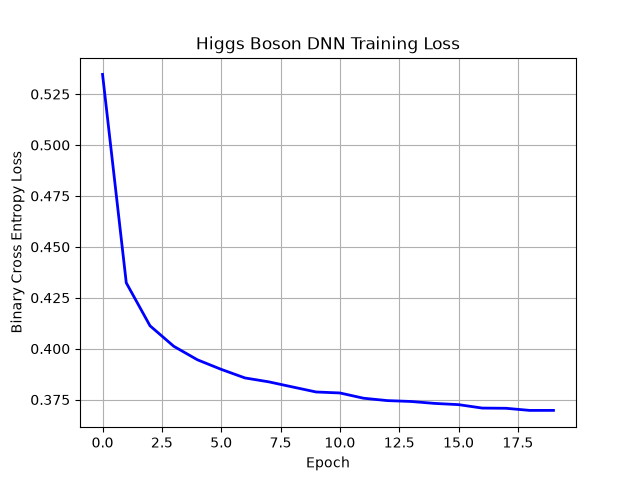
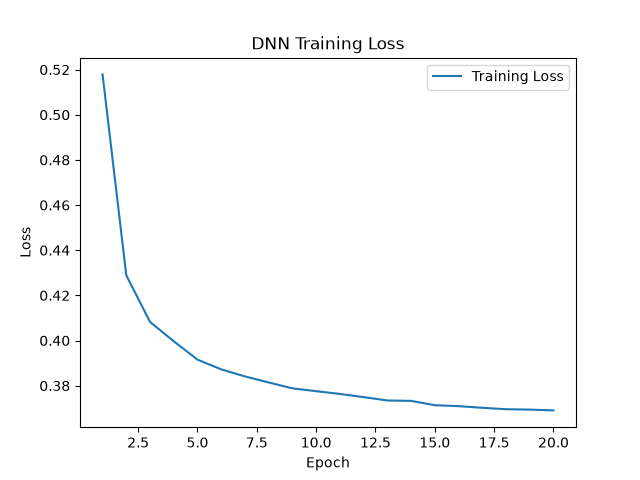
Upgrade matplotlib aesthetics for publication quality graphs

diff --git a/higgs_dnn.py b/higgs_dnn.py
@@ -13,47 +13,41 @@ df = pd.read_csv('training.csv')
 # Note: Took me hours to figure out why my loss was exploding with NaNs. CERN uses -999.0 for missing sensor readings instead of standard nulls. Replacing with 0.0 fixes the tensor math.
 df = df.replace(-999.0, 0.0)
 
-# Features (30 kinematic variables) and Labels (s = signal, b = background)
 X = df.drop(['EventId', 'Weight', 'Label'], axis=1).values
-y = np.where(df['Label'] == 's', 1, 0) # Convert 's' and 'b' to 1 and 0
+y = np.where(df['Label'] == 's', 1, 0)
 
-# Split into training and testing sets
 X_train, X_test, y_train, y_test = train_test_split(X, y, test_size=0.2, random_state=42)
 
-# Standardize the physical quantities (zero mean, unit variance)
 scaler = StandardScaler()
 X_train = scaler.fit_transform(X_train)
 X_test = scaler.transform(X_test)
 
-# Convert to PyTorch tensors
 X_train = torch.tensor(X_train, dtype=torch.float32)
 y_train = torch.tensor(y_train, dtype=torch.float32).unsqueeze(1)
 X_test = torch.tensor(X_test, dtype=torch.float32)
 y_test = torch.tensor(y_test, dtype=torch.float32).unsqueeze(1)
 
-# Define the Deep Neural Network
 class HiggsDNN(nn.Module):
     def __init__(self, input_dim):
         super().__init__()
         self.net = nn.Sequential(
             nn.Linear(input_dim, 128),
             nn.ReLU(),
-            nn.Dropout(0.3), # Prevents overfitting to background noise
+            nn.Dropout(0.3),
             nn.Linear(128, 64),
             nn.ReLU(),
             nn.Dropout(0.3),
             nn.Linear(64, 1),
-            nn.Sigmoid() # Outputs probability of being a Higgs Boson
+            nn.Sigmoid()
         )
 
     def forward(self, x):
         return self.net(x)
 
 model = HiggsDNN(X_train.shape[1])
-criterion = nn.BCELoss() # Binary Cross Entropy for signal vs background
+criterion = nn.BCELoss()
 optimizer = optim.Adam(model.parameters(), lr=0.001)
 
-# Train the model
 epochs = 20
 batch_size = 2048
 print("Training Deep Neural Network...")
@@ -78,24 +72,24 @@ for epoch in range(epochs):
     losses.append(avg_loss)
     print(f"Epoch {epoch+1}/{epochs}, Loss: {avg_loss:.4f}")
 
-# Evaluate accuracy
 with torch.no_grad():
     test_preds = model(X_test)
     test_preds = (test_preds >= 0.5).float()
     accuracy = (test_preds == y_test).float().mean()
     print(f"\nFinal Test Accuracy: {accuracy.item()*100:.2f}%")
 
-# Plot the loss curve
-plt.plot(losses, color='blue', linewidth=2)
-plt.title('Higgs Boson DNN Training Loss')
+# Basic Training Loss Curve
+plt.figure()
+plt.plot(range(1, epochs+1), losses, label='Training Loss')
 plt.xlabel('Epoch')
-plt.ylabel('Binary Cross Entropy Loss')
-plt.grid(True)
+plt.ylabel('Loss')
+plt.title('DNN Training Loss')
+plt.legend()
 plt.savefig('higgs_training.png')
-print("Saved training curve to higgs_training.png.")
-from sklearn.metrics import roc_curve, auc
+print("Saved basic training curve to higgs_training.png.")
 
-# Generate ROC Curve
+# Basic ROC Curve
+from sklearn.metrics import roc_curve, auc
 with torch.no_grad():
     y_score = model(X_test).numpy()
     
